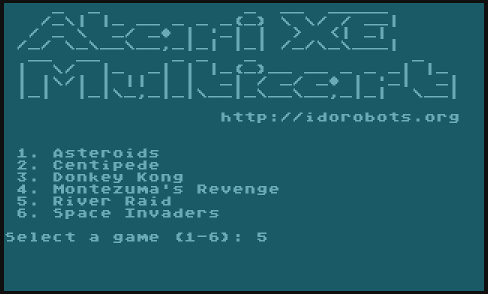
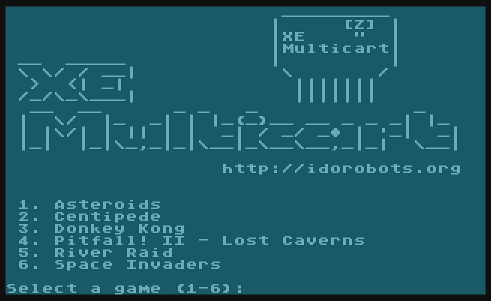
Removed trademarks from the project.

diff --git a/src/menu.c b/src/menu.c
@@ -20,10 +20,14 @@ void __fastcall__ bootstrap(void) {
 
 int main(void) {
   clrscr();
-  printf("    _  _            _  __  _____ \n");
-  printf("   /_\\| |_ __ _ _ _(_) \\ \\/ / __|\n");
-  printf("  / _ \\  _/ _` | '_| |  >  <| _| \n");
-  printf(" /_/ \\_\\__\\__,_|_| |_| /_/\\_\\___|\n");
+  printf("                       _________ \n");
+  printf("                      |     [Z] |\n");
+  printf("                      |XE    \"  |\n");
+  printf("                      |Multicart|\n");
+  printf(" __  _____            |         |\n");
+  printf(" \\ \\/ / __|            \\       /\n");
+  printf("  >  <| _|              |||||||\n");
+  printf(" /_/\\_\\___|             |||||||\n");
   printf("  __  __      _ _   _             _   \n");
   printf(" |  \\/  |_  _| | |_(_)__ __ _ _ _| |_ \n");
   printf(" | |\\/| | || | |  _| / _/ _` | '_|  _|\n");

diff --git a/README.md b/README.md
@@ -1,4 +1,4 @@
-# Atari 400/800/XL/XE multicart
+# XE Multicart
 
 A multi-game cartridge for the Atari 400/800/XL/XE with software game selection which can hold up to 127 games!
 
